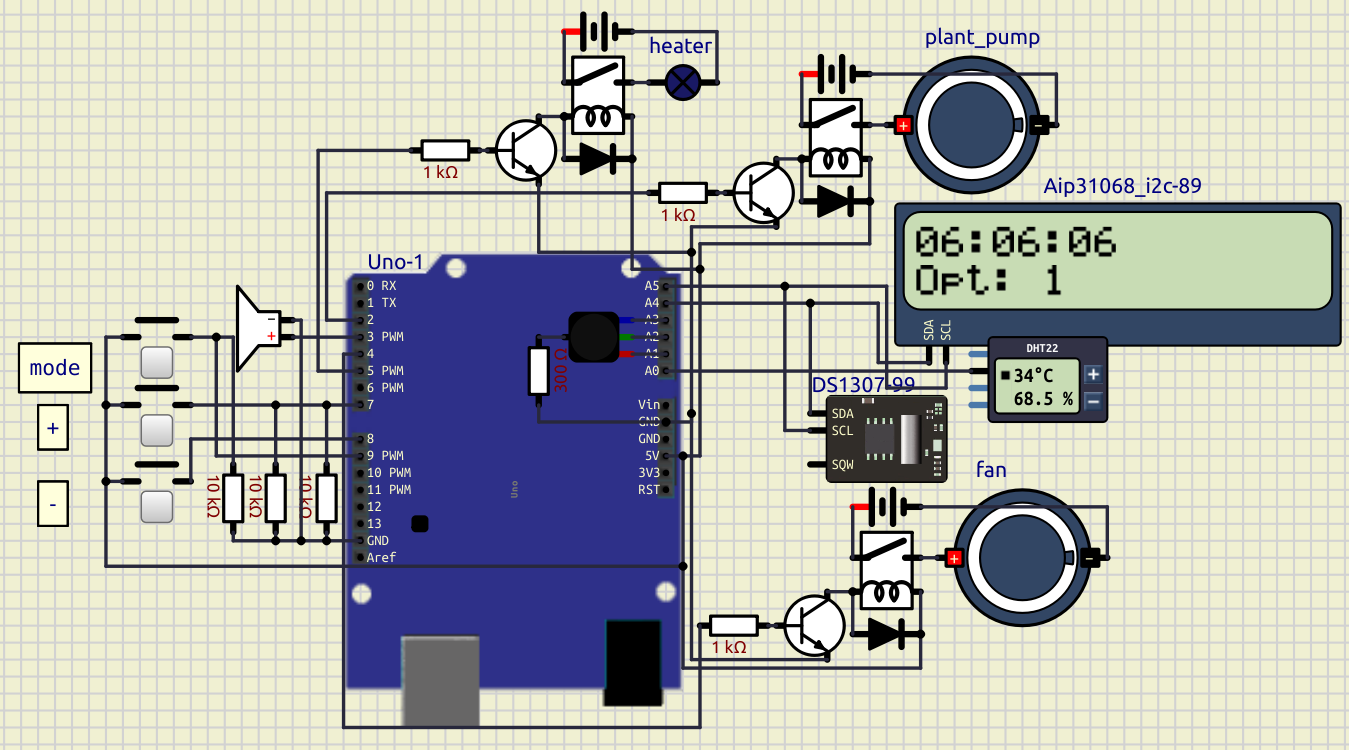
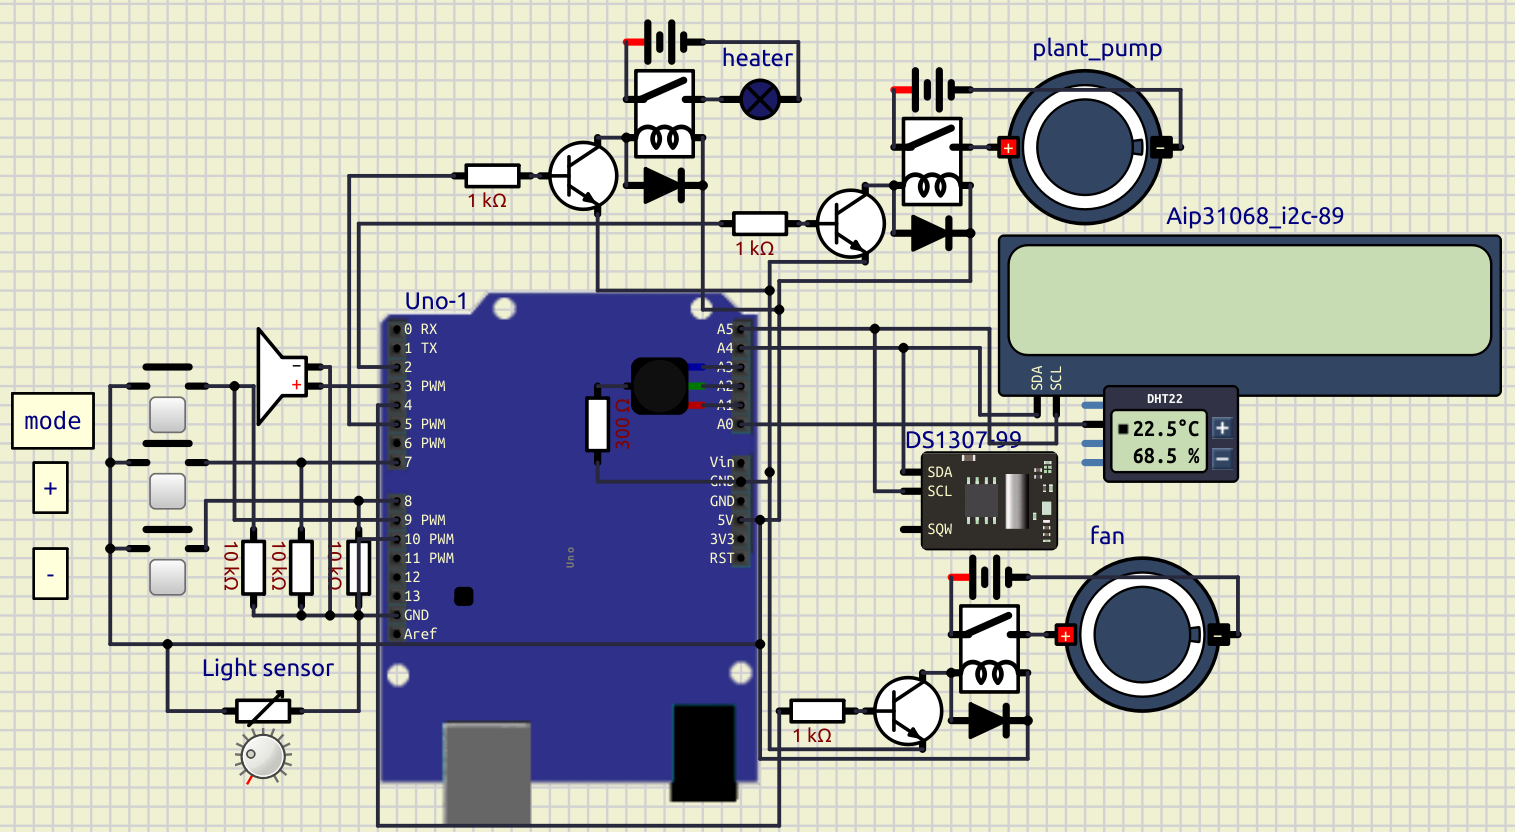
updated and completed all project

diff --git a/config.h b/config.h
@@ -4,10 +4,10 @@
 #define DHT_PIN A0
 
 // Lighting system
-#define LIGHT_panel_pin 12
-#define LIGHT_sensor_pin 10
-#define LIHGT_check_period 200
-#define MIN_light_val 500 // you should to correct this data by yourself
+#define LIGHT_PANEL_PIN 12
+#define LIGHT_SENSOR_PIN 10
+#define LIGHT_check_period 200
+#define MIN_light_val 500 // you should correct this data by yourself
 #define MAX_light_val 1000 // and this too
 
 // cooling system
@@ -21,7 +21,7 @@
 #define MIN_OPTION 1
 
 // temperature
-#define tmp_period 1000 * 3 // <- seconds
+#define tmp_period (1000 * 3) // added parentheses for safety
 #define MIN_plant_temperature 15
 #define MAX_plant_temperature 25
 
@@ -38,7 +38,7 @@
 // watering settings
 #define PUMP_PIN 6
 #define WATERING_HOUR 14    // ]
-#define WATERING_MIN 0      // ] -> it means that watering will on in 14:00, change it for your plants 
+#define WATERING_MIN 0      // ] -> it means that watering will on in 14:00
 #define WATERING_DURATION 5000 
 
 // buzzer
